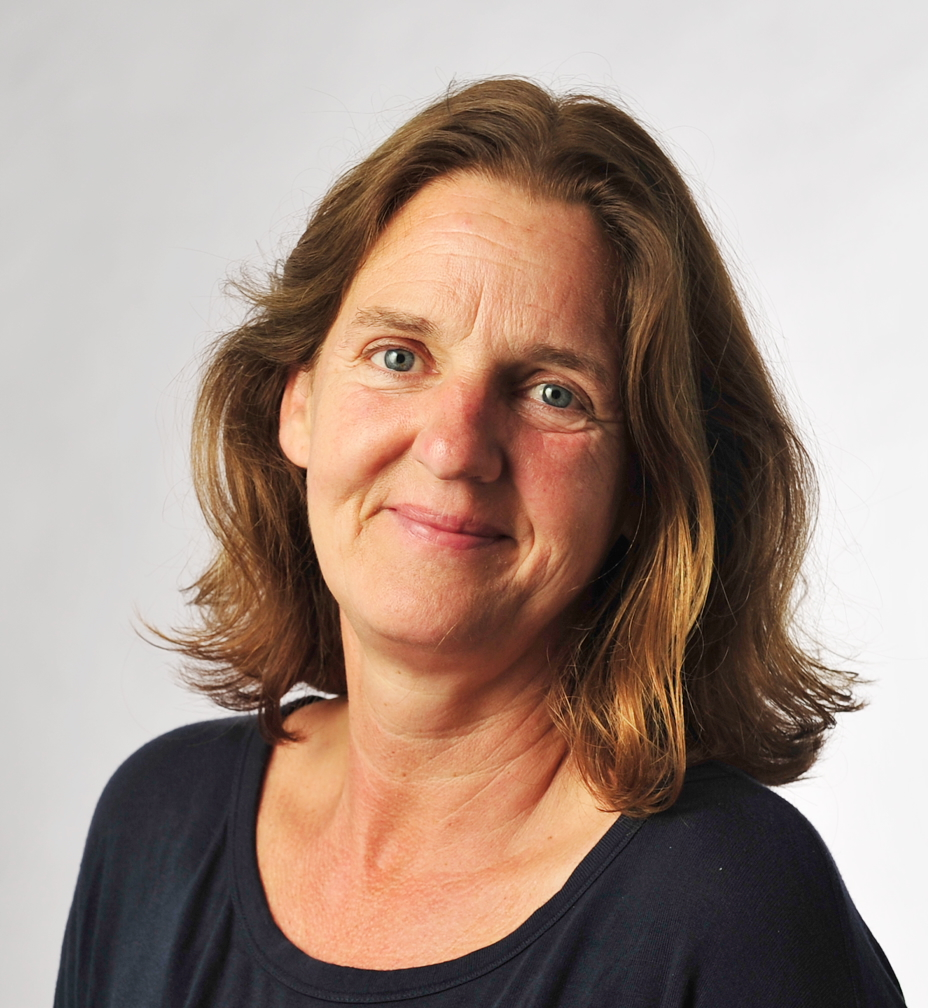
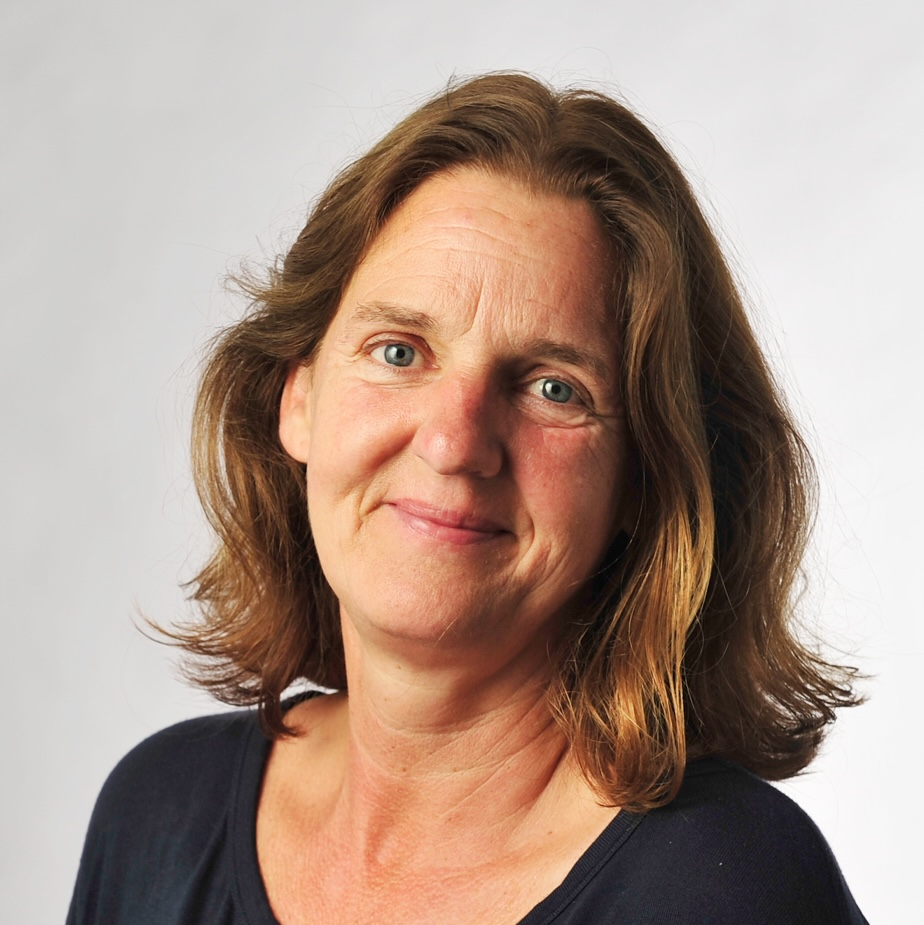
add constantin, standardize speaker images

Changed region(s): [[0.0303, 0.0605, 1.0, 1.0], [0.697, 0.9686, 0.7576, 1.0]]

diff --git a/_pages/speakers.md b/_pages/speakers.md
@@ -13,7 +13,7 @@ nav_order: 4
         name="Constantin Rothkopf"
         affiliation="TU Darmstadt"
         url="https://www.pip.tu-darmstadt.de/members_pip/publications.en.jsp"
-        img="assets/img/speakers/male_placeholder.jpg"
+        img="assets/img/speakers/2025/constantinrothkopf.jpg"
     %}
     {% include people.liquid
         name="Martin Hebart"
